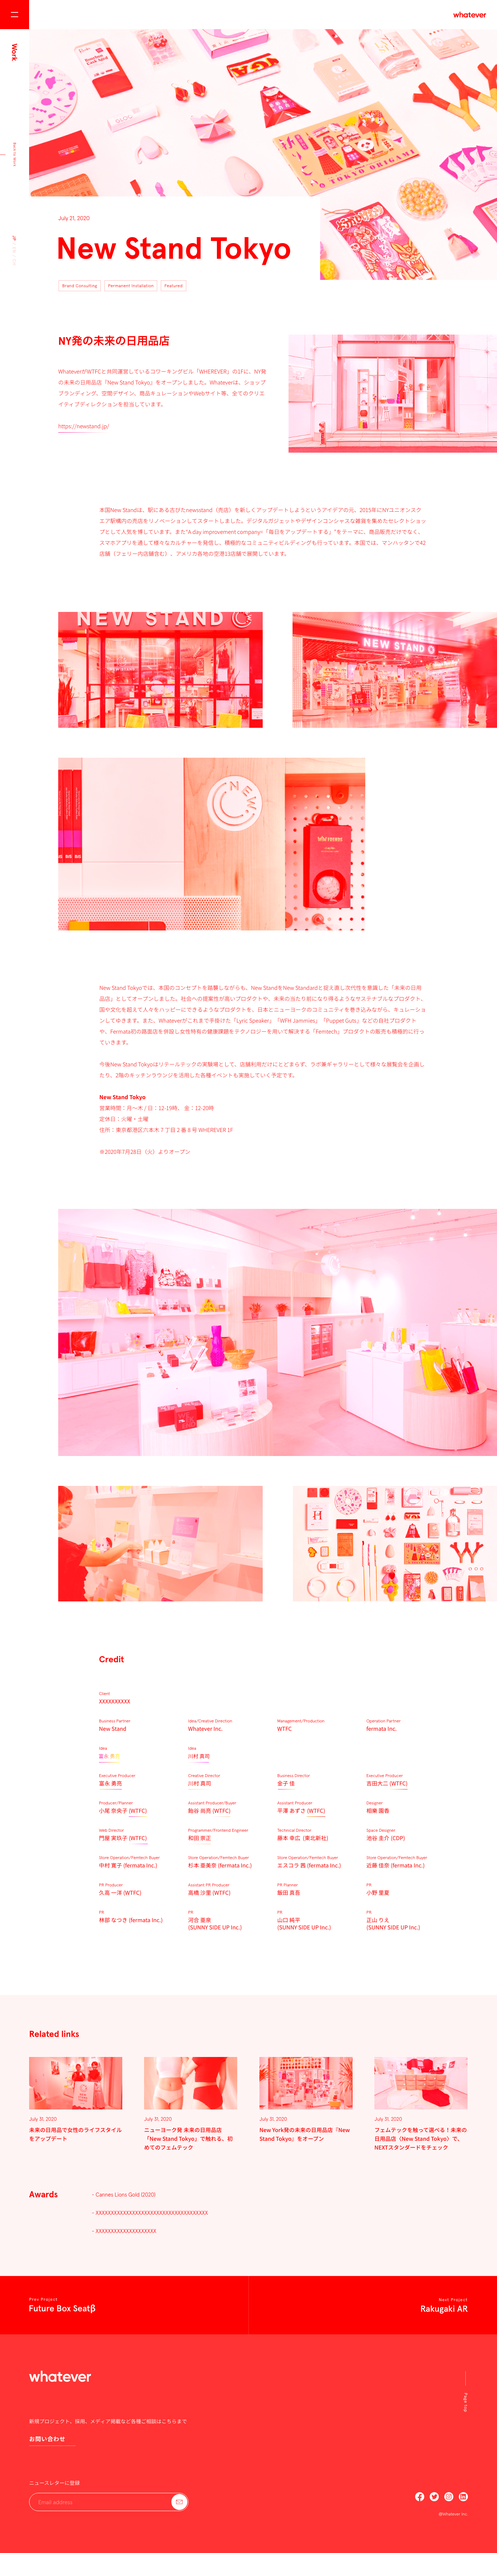
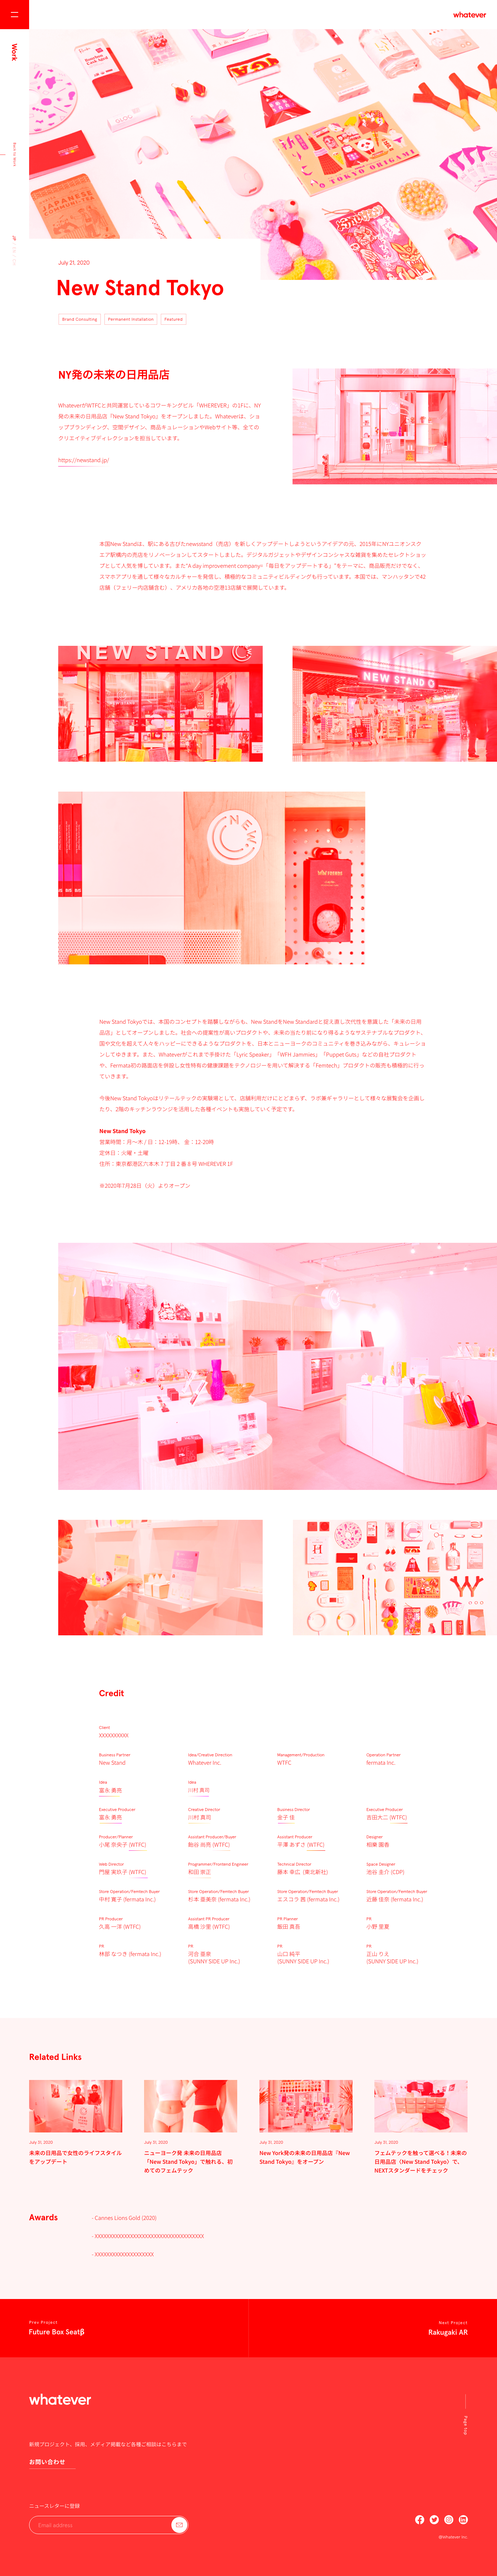
FIx and tweaks..

diff --git a/pages/work/[slug].tsx b/pages/work/[slug].tsx
@@ -16,7 +16,7 @@ const Header = ({ work }: { work: Entry }) => {
   })
   return (
     <div className="header">
-      <div className="image" style={{ height: `calc((100vw - 80px) * ${688 / (1366 - 80)} - ${scrollY}px)` }}><GradImg><img src={work.hero_image} alt="" /></GradImg></div>
+      <div className="image" style={{ height: `calc((100vw - 80px) * ${723 / (1366 - 80)} - ${scrollY}px)` }}><GradImg><img src={work.hero_image} alt="" /></GradImg></div>
       <div className="info">
         <div className="inner">
           <Grad><div className="date">{work.date}</div></Grad>
@@ -39,30 +39,32 @@ const Header = ({ work }: { work: Entry }) => {
           overflow hidden
           img
             width vwpx(1286)
-            height vwpx(688)
+            height vwpx(723)
             object-fit cover
         .info
+          display inline-block
           position relative
-          padding-top vwpx(459)
-          padding-right vwpx(486)
+          margin-top vwpx(610)
+          margin-right 80px
         .inner
           background-color white
-          padding-top vwpx(52)
-          padding-bottom vwpx(60)
+          padding-top vwpx(58)
           padding-left vwpx(80)
+          padding-right vwpx(100)
+          padding-bottom vwpx(60)
         .date
           display inline-block
           font-size vwpx(16)
         .title
           display inline-block
-          font-size vwpx(84)
+          font-size vwpx(60)
           font-weight bold
           line-height 1.2em
           margin-top vwpx(29)
           margin-left vwpx(-6)
         .tags
           display inline-block
-          margin-top vwpx(33)
+          margin-top vwpx(31)
       `}</style>
     </div>
   )
@@ -81,10 +83,10 @@ const Excerpt = ({ title, description, image }: { title: string, description: st
       @import 'lib/vw.styl'
       .excerpt
         margin-left vwpx(80)
-        margin-bottom vwpx(141)
+        margin-bottom vwpx(147)
         display grid
-        grid-template-columns auto vwpx(573)
-        grid-gap vwpx(70)
+        grid-template-columns auto vwpx(562)
+        grid-gap vwpx(80)
       .title
         font-size vwpx(30)
         font-weight bold
@@ -94,8 +96,8 @@ const Excerpt = ({ title, description, image }: { title: string, description: st
       .desc
         line-height 3.0rem
       .image img
-        width vwpx(573)
-        height vwpx(324)
+        width vwpx(562)
+        height vwpx(318)
         object-fit cover
     `}</style>
   </div>

diff --git a/pages/team/index.tsx b/pages/team/index.tsx
@@ -5,13 +5,24 @@ import { Member, getAllMembers } from 'lib/api'
 import Layout from 'components/Layout'
 import { Grad, GradImg } from 'components/Grad'
 
+function shuffle<T>(array: T[]) {
+  const out = Array.from(array);
+  for (let i = out.length - 1; i > 0; i--) {
+    const r = Math.floor(Math.random() * (i + 1));
+    const tmp = out[i];
+    out[i] = out[r];
+    out[r] = tmp;
+  }
+  return out;
+}
+
 const TeamIndex = ({ members }: { members: Member[] }) => (
   <Layout title="Team" side="Team">
     <div className="container">
       {members.map(m => (
         <Link href={`/team/${m.slug}`} key={m.slug}>
-          <a >
-            <div >
+          <a>
+            <div>
               <GradImg><img src={m.image} alt="" /></GradImg>
               <Grad><div className="region">{m.region.join(' / ')}</div></Grad>
               <Grad><div className="title">{m.title}</div></Grad>
@@ -22,10 +33,8 @@ const TeamIndex = ({ members }: { members: Member[] }) => (
       ))}
 
       <style jsx>{`
-        vwpx(px)
-          'calc((100vw - 80px) * %s)' % (px / (1366 - 80))
+        @import 'lib/vw.styl'
         .container
-          {/* opacity 0.5 */}
           display grid
           grid-template-columns repeat(4, 1fr)
           column-gap vwpx(81)
@@ -39,21 +48,21 @@ const TeamIndex = ({ members }: { members: Member[] }) => (
           height vwpx(260)
         .region
           display inline-block
-          font-size vwpx(10)
+          font-size 1.0rem
           letter-spacing 0.01em
-          margin-top vwpx(20)
+          margin-top 2.0rem
         .title
           display inline-block
-          font-size vwpx(14)
+          font-size 1.4rem
           font-weight 300
-          margin-top vwpx(12)
+          margin-top 1.2rem
         .name
           display inline-block
-          font-size vwpx(18)
-          line-height vwpx(18)
+          font-size 1.8rem
+          line-height 1.8rem
           font-weight bold
           letter-spacing 0.05em
-          margin-top vwpx(14)
+          margin-top 1.4rem
       `}</style>
     </div>
   </Layout>

diff --git a/pages/about/genres.tsx b/pages/about/genres.tsx
@@ -75,15 +75,14 @@ const Section1 = () => (
         display inline-block
         overflow hidden
       .example-items
-        display flex
-        flex-wrap wrap
-        align-items flex-start
+        display grid
+        grid-template-columns repeat(3, 1fr)
+        grid-gap 0
         .item
           border-left 1px solid #B4B4B4
           padding-top 1.7rem
           padding-bottom 1.7rem
           padding-left 38px
-          width 375px
           box-sizing border-box
           .title
             font-weight bold
@@ -147,7 +146,6 @@ const WorkLink = ({ name, link, desc }: { name: string, link: string, desc: stri
           margin-top 2.6rem
         .desc
           margin-top 1.7rem
-          margin-right 2rem
           font-size 1.2rem
           line-height 2.4rem
       `}</style>

diff --git a/pages/about/location.tsx b/pages/about/location.tsx
@@ -85,15 +85,15 @@ const Member = ({ image, title, name, slug }: { image: string, title: string, na
         img
           width vwpx(245)
         .title
-          font-size vwpx(14)
+          font-size 1.4rem
           font-weight 300
-          line-height vwpx(14)
-          margin-top vwpx(19)
+          line-height 1.4rem
+          margin-top 1.9rem
         .name
-          font-size vwpx(18)
+          font-size 1.8rem
           font-weight bold
-          line-height vwpx(18)
-          margin-top vwpx(12)
+          line-height 1.8rem
+          margin-top 1.2rem
       `}</style>
     </a>
   </Link>

diff --git a/components/WorkList.tsx b/components/WorkList.tsx
@@ -35,6 +35,7 @@ const LargeWork = ({ work }: { work: Entry }) => (
           object-fit cover
       .text
         margin-top vwpx(30)
+        margin-right vwpx(20)
         font-size 0
       .date
         display inline-block
@@ -94,6 +95,7 @@ const SmallWork = ({ work }: { work: Entry }) => (
       .text
         position relative
         margin-top 2.0rem
+        margin-right 2.0rem
         font-size 0
       .date
         display inline-block

diff --git a/components/About.tsx b/components/About.tsx
@@ -93,7 +93,7 @@ export const Header = (props: HeaderProps) => {
         .desc
           font-size vwpx_min(18)
           font-weight 700
-          line-height 4.0rem
+          line-height vwpx_min(40)
         .en
           &.header
             margin-top vwpx(44)

diff --git a/pages/index.tsx b/pages/index.tsx
@@ -170,6 +170,7 @@ const FeaturedWorkItem = ({ work }: { work: Entry }) => (
         display inline-block
         overflow hidden
         margin-top 0.4rem
+        margin-right 3.0rem
         line-height 2em
         font-size 1.5rem
         font-weight 300
